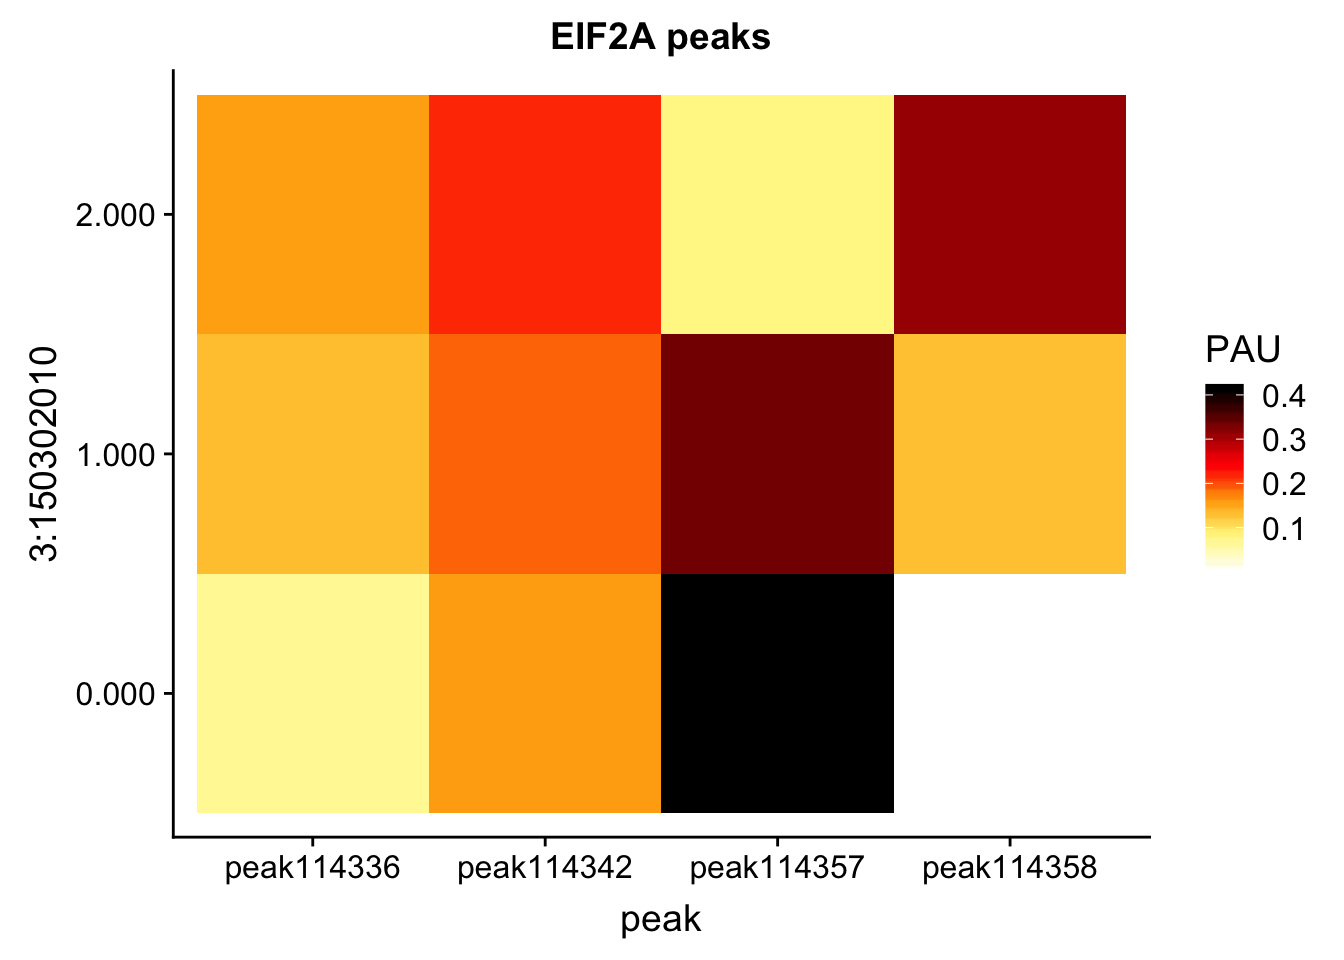
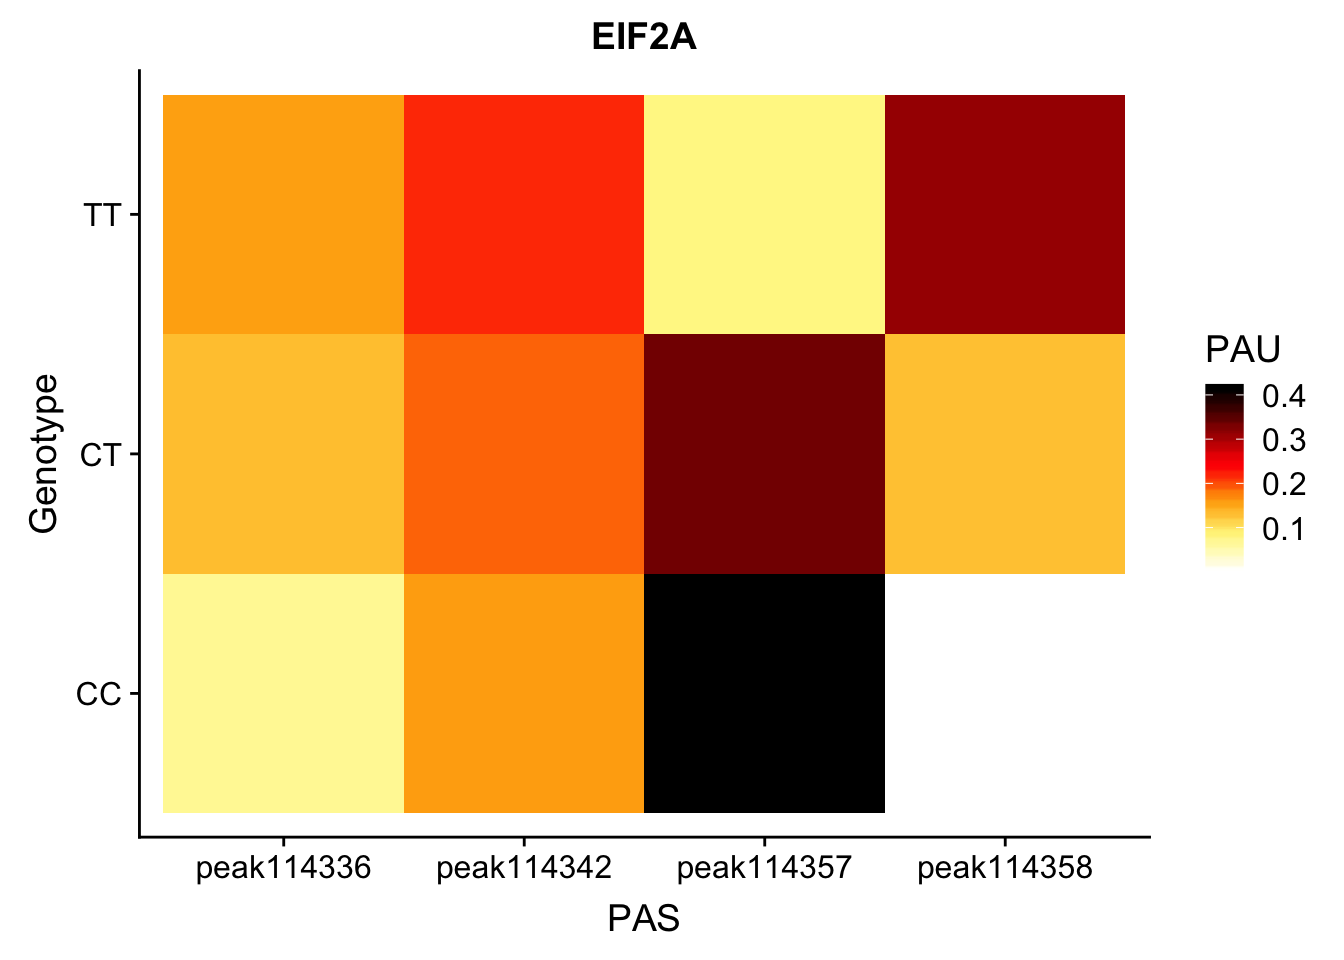
Build site.

diff --git a/docs/ExampleQTLPlot2.html b/docs/ExampleQTLPlot2.html
@@ -439,7 +439,7 @@ div.section {
 <div class="tab-content">
 <div id="summary" class="tab-pane fade in active">
 <p>
-<strong>Last updated:</strong> 2019-03-26
+<strong>Last updated:</strong> 2019-04-02
 </p>
 <p>
 <strong>Checks:</strong> <span class="glyphicon glyphicon-ok text-success" aria-hidden="true"></span> 6 <span class="glyphicon glyphicon-exclamation-sign text-danger" aria-hidden="true"></span> 0
@@ -518,10 +518,10 @@ This reproducible <a href="http://rmarkdown.rstudio.com">R Markdown</a> analysis
 <div class="panel panel-default">
 <div class="panel-heading">
 <p class="panel-title">
-<a data-toggle="collapse" data-parent="#workflowr-checks" href="#strongRepositoryversionstrongahrefhttpsgithubcombrimittlemanthreeprimeseqtree01af963ea69ae5a9314074571e8073c018ac03eftargetblank01af963a"> <span class="glyphicon glyphicon-ok text-success" aria-hidden="true"></span> <strong>Repository version:</strong> <a href="https://github.com/brimittleman/threeprimeseq/tree/01af963ea69ae5a9314074571e8073c018ac03ef" target="_blank">01af963</a> </a>
+<a data-toggle="collapse" data-parent="#workflowr-checks" href="#strongRepositoryversionstrongahrefhttpsgithubcombrimittlemanthreeprimeseqtreec4062e5b7ea7027ba52dfb160bbf9e818422bc17targetblankc4062e5a"> <span class="glyphicon glyphicon-ok text-success" aria-hidden="true"></span> <strong>Repository version:</strong> <a href="https://github.com/brimittleman/threeprimeseq/tree/c4062e5b7ea7027ba52dfb160bbf9e818422bc17" target="_blank">c4062e5</a> </a>
 </p>
 </div>
[2 lines of base64/hex data omitted]
 <div class="panel-body">
 <p>
 Great! You are using Git for version control. Tracking code development and connecting the code version to the results is critical for reproducibility. The version displayed above was the version of the Git repository at the time these results were generated. <br><br> Note that you need to be careful to ensure that all relevant files for the analysis have been committed to Git prior to generating the results (you can use <code>wflow_publish</code> or <code>wflow_git_commit</code>). workflowr only checks the R Markdown file, but you know if there are other scripts or data files that it depends on. Below is the status of the Git repository when the results were generated:
@@ -753,6 +753,40 @@ Message
 Rmd
 </td>
 <td>
+<a href="https://github.com/brimittleman/threeprimeseq/blob/c4062e5b7ea7027ba52dfb160bbf9e818422bc17/analysis/ExampleQTLPlot2.Rmd" target="_blank">c4062e5</a>
+</td>
+<td>
+Briana Mittleman
+</td>
+<td>
+2019-04-02
+</td>
+<td>
+add general script
+</td>
+</tr>
+<tr>
+<td>
+html
+</td>
+<td>
+<a href="https://rawcdn.githack.com/brimittleman/threeprimeseq/5244c0fda391b0e74a73e9cd89c3434dd4761e5e/docs/ExampleQTLPlot2.html" target="_blank">5244c0f</a>
+</td>
+<td>
+Briana Mittleman
+</td>
+<td>
+2019-03-26
+</td>
+<td>
+Build site.
+</td>
+</tr>
+<tr>
+<td>
+Rmd
+</td>
+<td>
 <a href="https://github.com/brimittleman/threeprimeseq/blob/01af963ea69ae5a9314074571e8073c018ac03ef/analysis/ExampleQTLPlot2.Rmd" target="_blank">01af963</a>
 </td>
 <td>
@@ -821,18 +855,170 @@ meltpheno$denom=as.numeric(meltpheno$denom)</code></pre>
 <pre class="r"><code>genoHead=read.table(&quot;../data/ExampleQTLplot2/genotypeHeader.txt&quot;, header = T,stringsAsFactors = F)
 genoEIF=read.table(&quot;../data/ExampleQTLplot2/EIF2a_TotalPeaksGenotype.txt&quot;, col.names =colnames(genoHead),stringsAsFactors = F ) %&gt;% select(ID,contains(&quot;NA&quot;)) 
 
-genoMelt=melt(genoEIF, id.vars = &quot;ID&quot;, value.name = &quot;FullGeno&quot;, variable.name = &quot;Individual&quot; ) %&gt;% separate(FullGeno, into=c(&quot;geno&quot;,&quot;dose&quot;,&quot;extra1&quot;), sep=&quot;:&quot;) %&gt;% select(Individual, dose) 
+lettersGeno=read.table(&quot;../data/ExampleQTLplot2/EIF2a_TotalPeaksGenotype.txt&quot;, col.names =colnames(genoHead),stringsAsFactors = F, colClasses = c(&quot;character&quot;) ) %&gt;% select(REF, ALT)
+
+refAllele=as.character(lettersGeno$REF)
+altAllele=as.character(lettersGeno$ALT)
+
+genoMelt=melt(genoEIF, id.vars = &quot;ID&quot;, value.name = &quot;FullGeno&quot;, variable.name = &quot;Individual&quot; ) %&gt;% separate(FullGeno, into=c(&quot;geno&quot;,&quot;dose&quot;,&quot;extra1&quot;), sep=&quot;:&quot;) %&gt;% select(Individual, dose) %&gt;% mutate(genotype=ifelse(round(as.integer(dose))==0, paste(refAllele, refAllele, sep=&quot;&quot;), ifelse(round(as.integer(dose))==1, paste(refAllele,altAllele, sep=&quot;&quot;), paste(altAllele,altAllele,sep=&quot;&quot;))))
 genoMelt$Individual= as.character(genoMelt$Individual)</code></pre>
 <p>Join these:</p>
-<pre class="r"><code>PhenandGene= meltpheno %&gt;% inner_join(genoMelt, by=&quot;Individual&quot;)  %&gt;% group_by(chrom, dose) %&gt;% summarise(SumNum=sum(num), SumDenom=sum(denom)) %&gt;% mutate(PAU=SumNum/SumDenom) %&gt;% separate(chrom, into=c(&quot;chr&quot;,&quot;start&quot;, &quot;end&quot;, &quot;id&quot;), sep=&quot;:&quot;) %&gt;% separate(id, into=c(&quot;gene&quot;, &quot;strand&quot;, &quot;peak&quot;), sep=&quot;_&quot;)</code></pre>
+<pre class="r"><code>PhenandGene= meltpheno %&gt;% inner_join(genoMelt, by=&quot;Individual&quot;)  %&gt;% group_by(chrom, genotype) %&gt;% summarise(SumNum=sum(num), SumDenom=sum(denom)) %&gt;% mutate(PAU=SumNum/SumDenom) %&gt;% separate(chrom, into=c(&quot;chr&quot;,&quot;start&quot;, &quot;end&quot;, &quot;id&quot;), sep=&quot;:&quot;) %&gt;% separate(id, into=c(&quot;gene&quot;, &quot;strand&quot;, &quot;peak&quot;), sep=&quot;_&quot;)</code></pre>
 <p>Check sums</p>
-<pre class="r"><code>Groupsumscheck = PhenandGene %&gt;% group_by(dose) %&gt;% summarise(SUM=sum(PAU))</code></pre>
+<pre class="r"><code>Groupsumscheck = PhenandGene %&gt;% group_by(genotype) %&gt;% summarise(SUM=sum(PAU))</code></pre>
 <pre class="r"><code>my_palette &lt;- colorRampPalette(c(&quot;white&quot;, &quot;khaki1&quot;, &quot;orange&quot;, &quot;red&quot;, &quot;darkred&quot;, &quot;black&quot;))
 
 
 
-ggplot(PhenandGene, aes(peak, dose)) + geom_tile(aes(fill = PAU)) + scale_fill_gradientn(colors =my_palette(100)) + labs(title=&quot;EIF2A peaks&quot;, y=&quot;3:150302010&quot; )</code></pre>
+eif2aplot=ggplot(PhenandGene, aes(peak, genotype)) + geom_tile(aes(fill = PAU))+ scale_fill_gradientn(colors =my_palette(100)) + labs(title=&quot;EIF2A&quot;, y=&quot;Genotype&quot;,x=&quot;PAS&quot;)
+
+eif2aplot</code></pre>
 <p><img src="figure/ExampleQTLPlot2.Rmd/unnamed-chunk-7-1.png" width="672" style="display: block; margin: auto;" /></p>
+<p>
+<button type="button" class="btn btn-default btn-xs btn-workflowr btn-workflowr-fig" data-toggle="collapse" data-target="#fig-unnamed-chunk-7-1">
+Past versions of unnamed-chunk-7-1.png
+</button>
+</p>
+<div id="fig-unnamed-chunk-7-1" class="collapse">
+<div class="table-responsive">
+<table class="table table-condensed table-hover">
+<thead>
+<tr>
+<th>
+Version
+</th>
+<th>
+Author
+</th>
+<th>
+Date
+</th>
+</tr>
+</thead>
+<tbody>
+<tr>
+<td>
+<a href="https://github.com/brimittleman/threeprimeseq/blob/5244c0fda391b0e74a73e9cd89c3434dd4761e5e/docs/figure/ExampleQTLPlot2.Rmd/unnamed-chunk-7-1.png" target="_blank">5244c0f</a>
+</td>
+<td>
+Briana Mittleman
+</td>
+<td>
+2019-03-26
+</td>
+</tr>
+</tbody>
+</table>
+</div>
+</div>
+<pre class="r"><code>ggsave(eif2aplot, file=&quot;../output/plots/testEIF2A.png&quot;)</code></pre>
+<pre><code>Saving 7 x 5 in image</code></pre>
+<div id="make-plot-reproducible-on-midway" class="section level3">
+<h3>Make plot reproducible on midway</h3>
+<p>I want the script to take a fraction, gene, chr, a snp (chr:loc)</p>
+<p>steps: * get phenotypes from /project2/gilad/briana/threeprimeseq/data/phenotypes_filtPeakTranscript_noMP_GeneLocAnno_5percUs/filtered_APApeaks_merged_allchrom_refseqGenes.GeneLocAnno_NoMP_sm_quant.Total.fixed.pheno_5perc.fc.gz and /project2/gilad/briana/threeprimeseq/data/phenotypes_filtPeakTranscript_noMP_GeneLocAnno_5percUs/filtered_APApeaks_merged_allchrom_refseqGenes.GeneLocAnno_NoMP_sm_quant.Nuclear.fixed.pheno_5perc.fc.gz * get genotype from /project2/gilad/briana/YRI_geno_hg19/chrX.dose.filt.vcf.gz *rscript for making plot</p>
+<p>I will write the rscript first:</p>
+<p>makeQTLheatmap.R</p>
+<pre class="r"><code>library(tidyverse)
+library(reshape2)
+library(optparse)
+library(cowplot)
+
+
+option_list = list(
+  make_option(c(&quot;-P&quot;, &quot;--pheno&quot;), action=&quot;store&quot;, default=NA, type=&#39;character&#39;,
+              help=&quot;input pheno file&quot;),
+  make_option(c(&quot;-G&quot;, &quot;--geno&quot;), action=&quot;store&quot;, default=NA, type=&#39;character&#39;,
+              help=&quot;input genotype&quot;),
+  make_option(c(&quot;-g&quot;, &quot;--gene&quot;), action=&quot;store&quot;, default=NA, type=&#39;character&#39;,
+              help=&quot;gene&quot;),
+  make_option(c(&quot;-o&quot;, &quot;--output&quot;), action=&quot;store&quot;, default=NA, type=&#39;character&#39;,
+              help=&quot;output file for plot&quot;)
+)
+
+opt_parser &lt;- OptionParser(option_list=option_list)
+opt &lt;- parse_args(opt_parser)
+
+
+phenohead=read.table(&quot;/project2/gilad/briana/threeprimeseq/data/ExampleQTLPlots2/Phenotypeheader.txt&quot;, header = T,stringsAsFactors = F)
+pheno=read.table(opt$pheno, col.names =colnames(phenohead),stringsAsFactors = F)
+
+
+meltpheno=melt(pheno, id.vars = &quot;chrom&quot;, value.name = &quot;Ratio&quot;, variable.name = &quot;Individual&quot;) %&gt;% separate(Ratio, into=c(&quot;num&quot;, &quot;denom&quot;), sep=&quot;/&quot;) 
+
+meltpheno$Individual= as.character(meltpheno$Individual)
+meltpheno$num= as.numeric(meltpheno$num)
+meltpheno$denom=as.numeric(meltpheno$denom)
+
+
+genoHead=read.table(&quot;/project2/gilad/briana/threeprimeseq/data/ExampleQTLPlots2/genotypeHeader.txt&quot;, header = T,stringsAsFactors = F)
+geno=read.table(opt$geno, col.names =colnames(genoHead),stringsAsFactors = F ) %&gt;% select(ID,contains(&quot;NA&quot;)) 
+
+
+lettersGeno=read.table(opt$geno, col.names =colnames(genoHead),stringsAsFactors = F,colClasses = c(&quot;character&quot;)) %&gt;% select(REF, ALT)
+
+refAllele=lettersGeno$REF
+altAllele=lettersGeno$ALT
+
+
+genoMelt=melt(geno, id.vars = &quot;ID&quot;, value.name = &quot;FullGeno&quot;, variable.name = &quot;Individual&quot; ) %&gt;% separate(FullGeno, into=c(&quot;geno&quot;,&quot;dose&quot;,&quot;extra1&quot;), sep=&quot;:&quot;) %&gt;% select(Individual, dose) %&gt;% mutate(genotype=ifelse(round(as.integer(dose))==0, paste(refAllele, refAllele, sep=&quot;&quot;), ifelse(round(as.integer(dose))==1, paste(refAllele,altAllele, sep=&quot;&quot;), paste(altAllele,altAllele,sep=&quot;&quot;))))
+genoMelt$Individual= as.character(genoMelt$Individual)
+
+PhenandGene= meltpheno %&gt;% inner_join(genoMelt, by=&quot;Individual&quot;)  %&gt;% group_by(chrom, genotype) %&gt;% summarise(SumNum=sum(num), SumDenom=sum(denom)) %&gt;% mutate(PAU=SumNum/SumDenom) %&gt;% separate(chrom, into=c(&quot;chr&quot;,&quot;start&quot;, &quot;end&quot;, &quot;id&quot;), sep=&quot;:&quot;) %&gt;% separate(id, into=c(&quot;gene&quot;, &quot;strand&quot;, &quot;peak&quot;), sep=&quot;_&quot;)
+
+
+
+my_palette &lt;- colorRampPalette(c(&quot;white&quot;, &quot;khaki1&quot;, &quot;orange&quot;, &quot;red&quot;, &quot;darkred&quot;, &quot;black&quot;))
+
+
+
+heatplot=ggplot(PhenandGene, aes(peak, genotype)) + geom_tile(aes(fill = PAU))+ scale_fill_gradientn(colors =my_palette(100)) + labs(title=opt$gene, y=&quot;Genotype&quot; , x= &quot;PAS&quot;)
+
+
+
+ggsave(heatplot, filename=opt$output, device=png, height=10, width=10)</code></pre>
+<p>qtlHeatmap.sh</p>
+<pre class="bash"><code>#!/bin/bash
+
+#SBATCH --job-name=qtlHeatmap
+#SBATCH --account=pi-yangili1
+#SBATCH --time=24:00:00
+#SBATCH --output=qtlHeatmap.out
+#SBATCH --error=qtlHeatmap.err
+#SBATCH --partition=bigmem2
+#SBATCH --mem=100G
+#SBATCH --mail-type=END
+
+
+module load Anaconda3
+source activate three-prime-env
+
+Fraction=$1
+gene=$2
+chrom=$3
+snp=$4
+
+
+less /project2/gilad/briana/threeprimeseq/data/phenotypes_filtPeakTranscript_noMP_GeneLocAnno_5percUs/filtered_APApeaks_merged_allchrom_refseqGenes.GeneLocAnno_NoMP_sm_quant.${Fraction}.fixed.pheno_5perc.fc.gz | grep ${gene}_ &gt; /project2/gilad/briana/threeprimeseq/data/ExampleQTLPlots2/${gene}_${Fraction}PeaksPheno.txt
+
+
+less /project2/gilad/briana/YRI_geno_hg19/chr${chrom}.dose.filt.vcf.gz | grep ${snp} &gt; /project2/gilad/briana/threeprimeseq/data/ExampleQTLPlots2/${gene}_${Fraction}PeaksGenotype.txt
+
+
+Rscript makeQTLheatmap.R -P /project2/gilad/briana/threeprimeseq/data/ExampleQTLPlots2/${gene}_${Fraction}PeaksPheno.txt -G  /project2/gilad/briana/threeprimeseq/data/ExampleQTLPlots2/${gene}_${Fraction}PeaksGenotype.txt -g ${gene} -o /project2/gilad/briana/threeprimeseq/data/ExampleQTLPlots2/${gene}_${Fraction}_${SNP}.png</code></pre>
+<pre class="r"><code>totalQTLs=read.table(&quot;../data/ApaQTLs/TotalapaQTLs.GeneLocAnno.noMP.5perc.10FDR.txt&quot;, header=F)</code></pre>
+<p>14:65401627:65401711:CHURC1_-_peak48994</p>
+<p>14:65389250</p>
+<pre class="bash"><code>sbatch qtlHeatmap.sh &quot;Total&quot; &quot;CHURC1&quot; &quot;14&quot; &quot;14:65389250&quot;</code></pre>
+<p>12:57489617:57489715:STAT6_+_peak36983 12:57489648</p>
+<pre class="bash"><code>sbatch qtlHeatmap.sh &quot;Total&quot; &quot;STAT6&quot; &quot;12&quot; &quot;12:57489648&quot;</code></pre>
+<p>Try a nuclear one:</p>
+<pre class="r"><code>nucQTLs=read.table(&quot;../data/ApaQTLs/NuclearapaQTLs.GeneLocAnno.noMP.5perc.10FDR.txt&quot;, header=F)</code></pre>
+<p>19:4688114:4688228:DPP9_+_peak77244</p>
+<p>19:4680128</p>
+<pre class="bash"><code>sbatch qtlHeatmap.sh &quot;Nuclear&quot; &quot;DPP9&quot; &quot;19&quot; &quot;19:4680128&quot;</code></pre>
+<p>4:83355978:83356052:ENOPH1_-_peak121076 4:83352186</p>
+<pre class="bash"><code>sbatch qtlHeatmap.sh &quot;Nuclear&quot; &quot;ENOPH1&quot; &quot;4&quot; &quot;4:83352186&quot;</code></pre>
 <br> <br>
 <p>
 <button type="button" class="btn btn-default btn-workflowr btn-workflowr-sessioninfo" data-toggle="collapse" data-target="#workflowr-sessioninfo" style="display: block;">
@@ -874,6 +1060,7 @@ loaded via a namespace (and not attached):
 [41] scales_1.0.0     htmltools_0.3.6  rvest_0.3.2      assertthat_0.2.0
 [45] colorspace_1.4-0 labeling_0.3     stringi_1.3.1    lazyeval_0.2.1  
 [49] munsell_0.5.0    broom_0.5.1      crayon_1.3.4    </code></pre>
+</div>
 </div>
 
 <hr>
